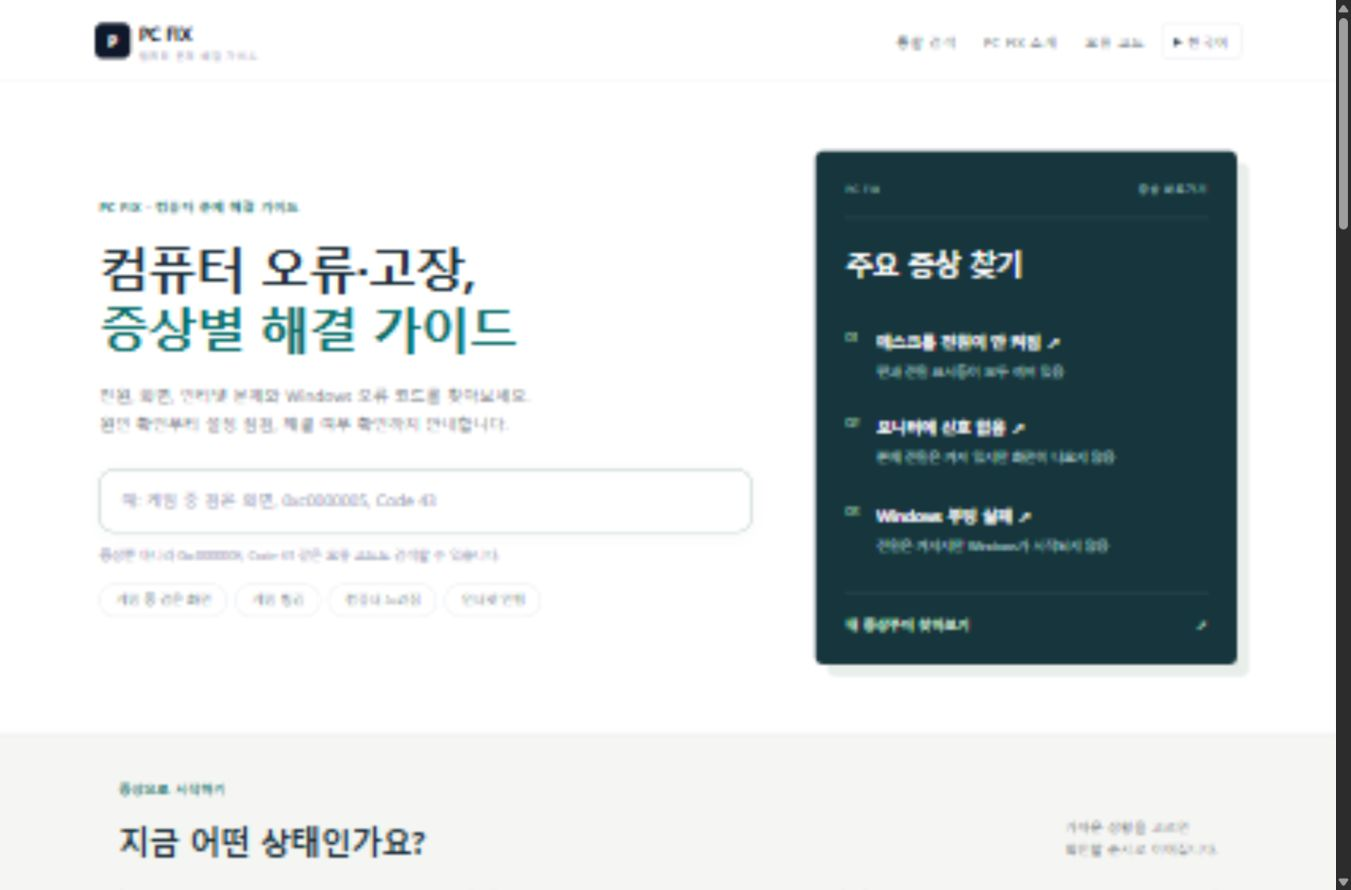
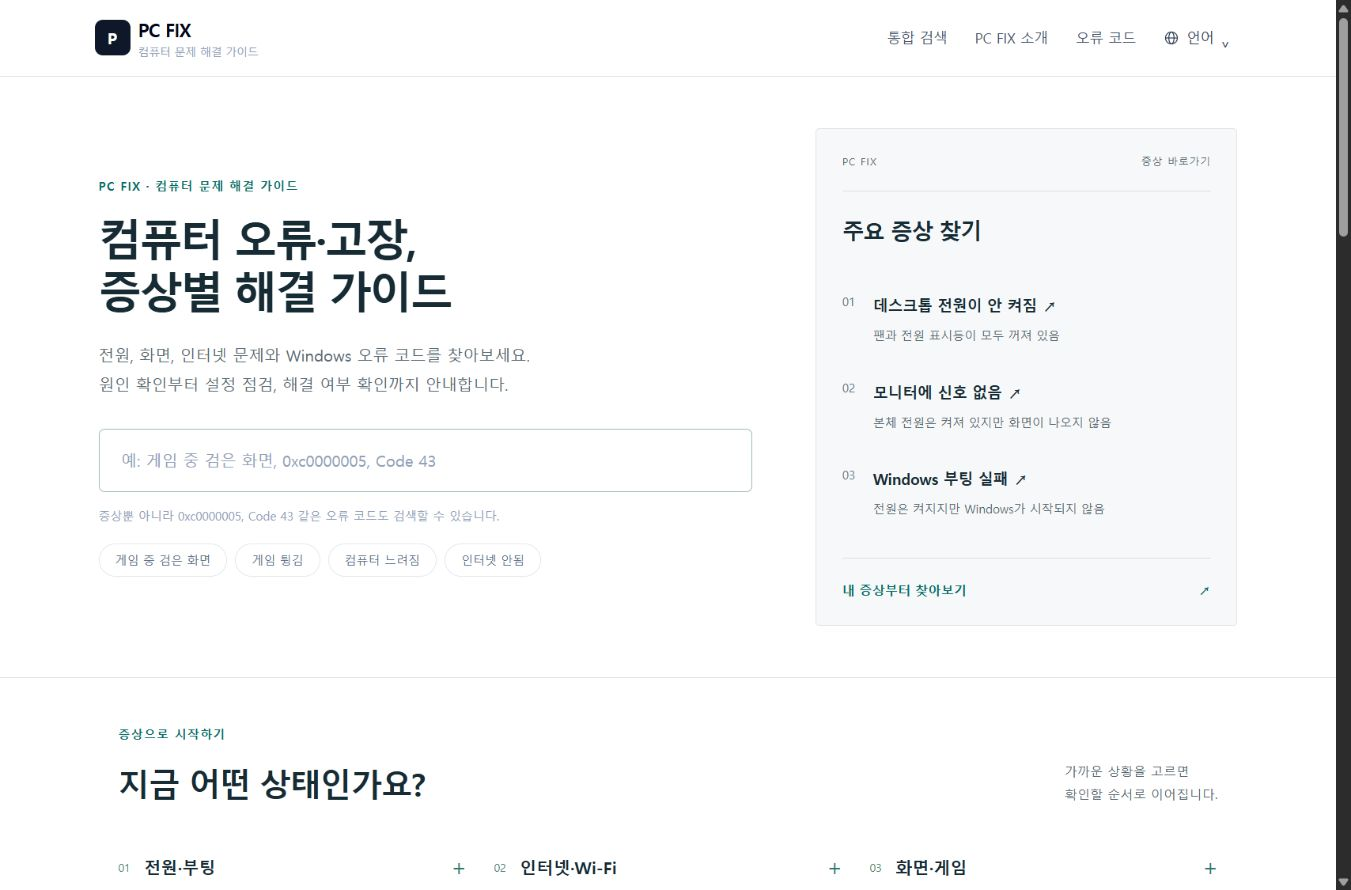
Simplify guide layout and label language menu clearly

diff --git a/app/globals.css b/app/globals.css
@@ -1,7 +1,7 @@
 @import "tailwindcss";
 
 :root {
-  --background: #f5f6f3;
+  --background: #ffffff;
   --foreground: #172b35;
   --ink: #172b35;
   --muted: #586a72;
@@ -57,36 +57,36 @@ button, a, summary { -webkit-tap-highlight-color: transparent; }
 summary { cursor: pointer; }
 section[id], article[id] { scroll-margin-top: 24px; }
 .site-header { background: #fff; border-bottom: 1px solid #dce3df; }
-.site-header > div { max-width: 1200px; min-height: 82px; }
+.site-header > div { max-width: 1200px; min-height: 70px; }
 .home-page, .guide-page { background: var(--background); }
 .home-hero { background: #fff; border-bottom: 1px solid #dce3df; }
-.hero-grid { max-width: 1200px; margin: auto; padding: 70px 24px; display: grid; grid-template-columns: minmax(0,1.55fr) minmax(0,1fr); gap: 64px; align-items: center; }
+.hero-grid { max-width: 1200px; margin: auto; padding: 52px 24px; display: grid; grid-template-columns: minmax(0,1.55fr) minmax(0,1fr); gap: 64px; align-items: center; }
 .eyebrow { color: var(--accent); font-size: 12px; font-weight: 750; letter-spacing: .08em; margin-bottom: 18px; }
-.hero-title { color: var(--ink); font-size: clamp(36px,3.8vw,54px); line-height: 1.2; font-weight: 800; letter-spacing: -.055em; text-wrap: balance; }
-.hero-accent { color: var(--accent); }
+.hero-title { color: var(--ink); font-size: clamp(32px,3.2vw,44px); line-height: 1.2; font-weight: 800; letter-spacing: -.055em; text-wrap: balance; }
+.hero-accent { color: var(--ink); }
 html[lang="ko"] .hero-title, html[lang="ko"] .hero-description { word-break:keep-all; }
 .hero-description { margin-top: 24px; color: var(--muted); font-size: 16px; line-height: 1.85; }
 .hero-search { margin-top: 30px; }
-.hero-search input { border-color: #9fbbb4 !important; box-shadow: 0 4px 16px #153d2e08 !important; }
+.hero-search input { border-color: #9fbbb4 !important; box-shadow: none !important; border-radius:6px !important; }
 .hero-search input:focus { outline: 3px solid #b3d9ce; outline-offset: 2px; }
-.hero-fieldnote { position: relative; background: #17353c; color: #fff; padding: 30px; border-radius: 8px; box-shadow: 12px 12px 0 #e8eeea; }
-.fieldnote-top { display: flex; flex-wrap: wrap; justify-content: space-between; gap: 10px; padding-bottom: 22px; border-bottom: 1px solid #466269; font-size: 10px; letter-spacing: .1em; color: #b8d0cd; }
-.hero-fieldnote h2 { margin-top: 24px; font-size: 28px; font-weight: 650; line-height: 1.45; letter-spacing: -.04em; }
+.hero-fieldnote { position: relative; background: #f7f8f9; color: var(--ink); padding: 26px; border-radius: 4px; border:1px solid #e1e5e8; }
+.fieldnote-top { display: flex; flex-wrap: wrap; justify-content: space-between; gap: 10px; padding-bottom: 22px; border-bottom: 1px solid #dce2e5; font-size: 10px; letter-spacing: .1em; color: #586a72; }
+.hero-fieldnote h2 { margin-top: 24px; font-size: 22px; font-weight: 650; line-height: 1.45; letter-spacing: -.04em; }
 .fieldnote-steps { margin-top: 28px; }
 .fieldnote-steps li { display: flex; gap: 18px; padding: 15px 0; }
-.fieldnote-steps li > span { color: #a6d1b8; font-size: 12px; font-variant-numeric: tabular-nums; padding-top: 3px; }
+.fieldnote-steps li > span { color: #667781; font-size: 12px; font-variant-numeric: tabular-nums; padding-top: 3px; }
 .fieldnote-steps strong { font-size: 15px; font-weight: 650; }
 .fieldnote-steps a { display:block; padding-block:4px; }
 .fieldnote-steps a:hover { text-decoration:underline; text-underline-offset:4px; }
-.fieldnote-steps p { font-size: 12px; line-height: 1.8; color: #bdd0d0; margin-top: 4px; }
-.fieldnote-link { margin-top: 23px; border-top: 1px solid #466269; padding-top: 22px; display: flex; justify-content: space-between; font-size: 13px; font-weight: 650; color: #d5eddc; }
+.fieldnote-steps p { font-size: 12px; line-height: 1.8; color: #586a72; margin-top: 4px; }
+.fieldnote-link { margin-top: 23px; border-top: 1px solid #dce2e5; padding-top: 22px; display: flex; justify-content: space-between; font-size: 13px; font-weight: 650; color: #076d68; }
 .section-heading { display:flex; gap: 24px; justify-content:space-between; align-items:end; margin-bottom:28px; }
 .section-heading h2, .editorial-promise h2 { font-size: clamp(25px,2.5vw,32px); font-weight: 750; line-height: 1.4; letter-spacing:-.04em; color:var(--ink); }
 .section-heading > p { font-size: 13px; line-height: 1.8; color: var(--muted); }
-.symptom-grid { display:grid; grid-template-columns:repeat(3,minmax(0,1fr)); gap:16px; align-items:start; }
-.symptom-group { background:#fff; border:1px solid #d9e1dc; border-radius:8px; }
-.symptom-group[open] { border-color:#258a79; box-shadow:0 3px 0 #258a79; }
-.symptom-group summary { list-style:none; display:flex; align-items:start; gap:14px; padding:24px 20px; }
+.symptom-grid { display:grid; grid-template-columns:repeat(3,minmax(0,1fr)); gap:0 28px; align-items:start; }
+.symptom-group { background:#fff; border-bottom:1px solid #d9e1dc; }
+.symptom-group[open] { border-color:#258a79; }
+.symptom-group summary { list-style:none; display:flex; align-items:start; gap:14px; padding:22px 0; }
 .symptom-group summary::-webkit-details-marker { display:none; }
 .symptom-number { color:#4b7e70; font-size:11px; font-variant-numeric:tabular-nums; margin-top:4px; }
 .symptom-group strong { font-size:17px; color:var(--ink); }
@@ -106,10 +106,10 @@ html[lang="ko"] .hero-title, html[lang="ko"] .hero-description { word-break:keep
 .featured-card h3 { font-size:17px; line-height:1.65; letter-spacing:-.025em; }
 .featured-card > span:first-child { color:var(--accent); }
 .guide-link-label { display:flex; justify-content:space-between; gap:12px; margin-top:18px; font-size:12px; font-weight:650; color:var(--accent); }
-.editorial-promise { margin-top:64px; display:grid; grid-template-columns:1fr 1fr; gap:40px; background:#e8eeE7; padding:36px; border-top:3px solid #487762; }
+.editorial-promise { margin-top:64px; display:grid; grid-template-columns:1fr 1fr; gap:40px; background:#f7f8f9; padding:28px; border-top:1px solid #dce2e5; }
 .editorial-promise p:not(.eyebrow) { font-size:14px; line-height:1.9; color:#4a5f57; margin-bottom:14px; }
 .editorial-promise a { font-size:13px; color:#185a4c; text-decoration:underline; text-underline-offset:4px; }
-.guide-page > div.mx-auto { max-width:960px; }
+.guide-page > div.mx-auto { max-width:860px; }
 .guide-page h1 { letter-spacing:-.045em; text-wrap:balance; line-height:1.35; }
 .guide-page h2 { letter-spacing:-.025em; }
 .guide-meta { display:flex; flex-wrap:wrap; gap:8px 18px; font-size:12px; color:#5c7166; margin-top:18px; }
@@ -117,7 +117,7 @@ html[lang="ko"] .hero-title, html[lang="ko"] .hero-description { word-break:keep
 .guide-page .bg-blue-600 { background-color:#246e5a; }
 .guide-page .text-blue-600, .guide-page .text-blue-700 { color:#17634f; }
 .guide-page article { box-shadow:none; }
-.guide-page article > div:first-child { background:#f4f7f3; }
+.guide-page article > div:first-child { background:#fff; }
 .guide-page article ol { max-width:75ch; }
 .procedure-overview { margin-top:24px; border-top:1px solid #cfdcd5; border-bottom:1px solid #cfdcd5; padding:22px 0; }
 .procedure-overview ol { display:grid; grid-template-columns:repeat(2,minmax(0,1fr)); gap:0 20px; margin-top:14px; }
@@ -148,6 +148,26 @@ html[lang="ko"] .hero-title, html[lang="ko"] .hero-description { word-break:keep
 .faq-item summary::after { content:'+'; font-size:22px; color:#397362; }
 .faq-item[open] summary::after { content:'−'; }
 .faq-item > p { padding:0 4px 24px; font-size:14px; line-height:1.9; color:var(--muted); }
+/* Quiet document layout: color is reserved for links and diagnostic notices. */
+.language-menu > summary { display:flex; align-items:center; gap:7px; list-style:none; border-radius:4px; }
+.language-menu > summary::-webkit-details-marker { display:none; }
+.language-menu > summary:hover, .language-menu[open] > summary { background:#f1f4f5; }
+.language-chevron { font-size:16px; line-height:1; }
+.language-menu[open] .language-chevron { transform:rotate(180deg); }
+.guide-page h1 { font-weight:750; }
+html[lang="ko"] .guide-page h1, html[lang="ko"] .guide-page h3 { word-break:keep-all; }
+.guide-page h2 { font-weight:700; }
+.guide-page > div.mx-auto > section:first-of-type { border:0; border-radius:0; padding:8px 0 24px; box-shadow:none; border-bottom:1px solid #dce2e5; }
+.guide-page section.rounded-2xl, .guide-page aside.rounded-2xl { border-radius:4px; box-shadow:none; }
+.guide-page article[id] { border:0; border-top:2px solid #33454f; border-bottom:1px solid #dce2e5; border-radius:0; }
+.guide-page article[id] > div { padding-inline:0; }
+.guide-page article[id] .rounded-full.bg-blue-600 { background:#edf1f3; color:#263b46; border-radius:3px; font-weight:700; }
+.guide-page article[id] .rounded-xl { border-radius:4px; }
+.guide-page article[id] .bg-green-50 { background:#f3f7f4; border:0; border-left:3px solid #5c8973; }
+.guide-page article[id] .bg-blue-50 { background:#f5f7f9; border-left:3px solid #9eafba; color:#334e60; }
+.guide-page a.group { border-radius:4px; box-shadow:none; }
+.guide-page a.group:hover { transform:none; box-shadow:none; }
+.diagnostic-notes, .comparison-guide, .route-visual { border-radius:4px; }
 @media (max-width:900px) {
   .hero-grid { gap:30px; grid-template-columns:1.3fr 1fr; padding-block:44px; }
   .hero-fieldnote { padding:22px; }
@@ -173,7 +193,7 @@ html[lang="ko"] .hero-title, html[lang="ko"] .hero-description { word-break:keep
   .section-heading { align-items:start; flex-direction:column; gap:0; }
   .section-heading > p { margin-top:12px; }
   .symptom-grid { grid-template-columns:1fr; gap:10px; }
-  .symptom-group summary { padding:18px; }
+  .symptom-group summary { padding:18px 0; }
   .symptom-hint { margin-top:4px; }
   .featured-grid { grid-template-columns:1fr; }
   .featured-card:nth-child(even) { border-left:0; padding-left:0; }

diff --git a/components/LanguageSelector.tsx b/components/LanguageSelector.tsx
@@ -13,11 +13,13 @@ const languages: { locale: Locale; label: string }[] = [
 export default function LanguageSelector() {
   const pathname = usePathname() || "/";
   const current = localeFromPath(pathname);
-  return <details className="relative shrink-0" translate="no">
-    <summary id="site-language" aria-label="Select language" className="cursor-pointer rounded-lg border border-slate-200 bg-white px-3 py-2 text-sm text-slate-700 focus-visible:outline-2 focus-visible:outline-blue-500">
-      {languages.find(language => language.locale === current)?.label}
+  const label = { ko: "언어", en: "Language", ja: "言語", "zh-CN": "语言" }[current];
+  return <details className="language-menu relative shrink-0" translate="no">
+    <summary id="site-language" aria-label={label} className="cursor-pointer px-3 py-2 text-sm text-slate-700">
+      <svg aria-hidden="true" width="16" height="16" viewBox="0 0 24 24" fill="none" stroke="currentColor" strokeWidth="1.5"><circle cx="12" cy="12" r="9"/><ellipse cx="12" cy="12" rx="4" ry="9"/><path d="M3 12h18"/></svg>
+      {label}<span aria-hidden="true" className="language-chevron">⌄</span>
     </summary>
-    <nav aria-label="Select language" className="absolute right-0 top-full z-50 mt-1 min-w-36 rounded-lg border border-slate-200 bg-white p-1 shadow-lg">
+    <nav aria-label={label} className="absolute right-0 top-full z-50 mt-1 min-w-36 rounded-md border border-slate-200 bg-white p-1 shadow-lg">
       {languages.map(({ locale, label }) => <a key={locale} href={localizePath(pathname, locale)} hrefLang={locale} lang={locale} aria-current={locale === current ? "page" : undefined} onClick={event => {
         document.cookie = `pcfix-language=${locale}; Path=/; Max-Age=31536000; SameSite=Lax${window.location.protocol === "https:" ? "; Secure" : ""}`;
         if (event.button !== 0 || event.ctrlKey || event.metaKey || event.shiftKey || event.altKey) return;
